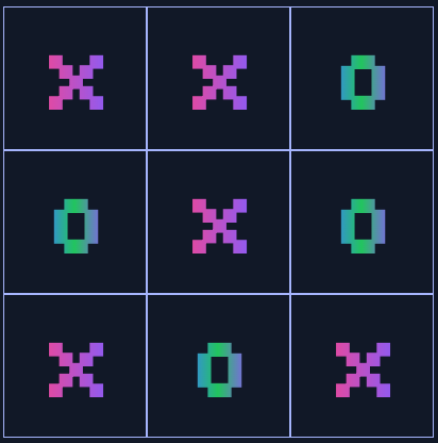
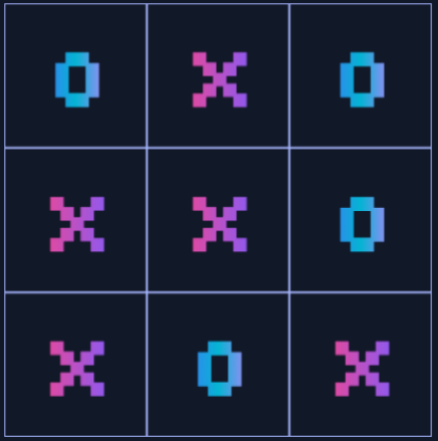
fix: change img for tictac

diff --git a/src/components/atoms/AboutUs.vue b/src/components/atoms/AboutUs.vue
@@ -1,7 +1,7 @@
 <template>
   <div class="flex justify-center mt-20 space-x-16">
     <img src="../images/mems.png" alt="memory" class="w-60 animate-flip-down" />
-    <img src="../images/tictac.png" alt="memory" class="w-60 animate-flip-up" />
+    <img src="../images/tictactoe.png" alt="memory" class="w-60 animate-flip-up" />
   </div>
     <div class="text-white text-center mx-40 px-20 mt-20 py-10 font-silk text-2xl animate-fade-right">
       <span>Jesteśmy wielbicielami klasycznych gier, które towarzyszą nam praktycznie od dzieciństwa. Teraz postanowiliśmy

diff --git a/src/components/atoms/HomeContent.vue b/src/components/atoms/HomeContent.vue
@@ -3,7 +3,7 @@
     <div class="flex items-center justify-center py-16 text-white">
       <h1
         class="relative w-[max-content] font-silk uppercase text-5xl before:absolute before:inset-0 before:animate-typewriter before:bg-gray-900 after:absolute after:inset-0 after:w-[0.125em] after:animate-caret after:bg-white">
-        gramy..?
+        grasz z nami?
       </h1>
     </div>
     <div class="flex justify-center text-center text-blue-200 font-silk text-3xl space-x-24 mt-16">
